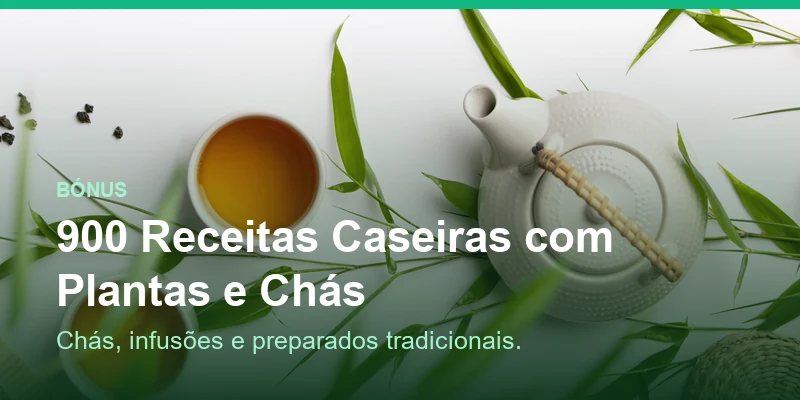
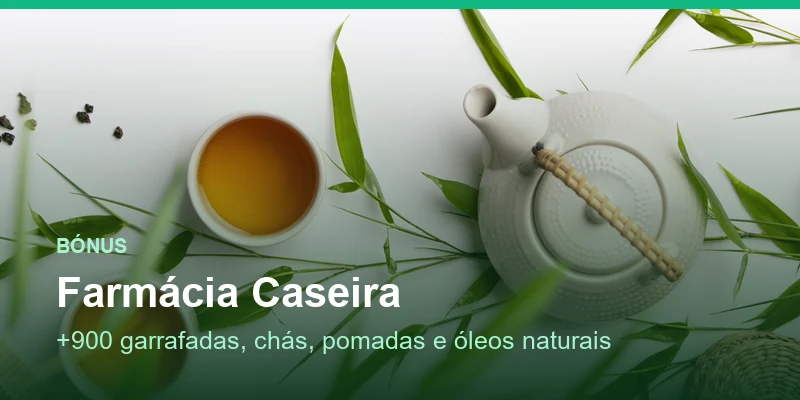
fix(stripe): o checkout nao mostrava onde escrever o cartao
A funcao que entrega a chave ao browser respeita o modo de teste e devolvia a
chave pk_test. Mas as que falam com o Stripe liam sempre stripe_secret_key, a
chave real. O browser abria o Stripe em modo de teste e recebia um pagamento
criado em modo real: perante essa mistura o Stripe recusa-se a desenhar o
formulario, e o cliente ficava sem onde escrever o cartao.

Todas as funcoes passam a escolher a chave pelo mesmo stripe_mode. Em modo de
teste usam so a chave de teste — se faltar, falham com erro em vez de caírem
na chave real, que cobraria a serio a pensar que estava a testar.

A get-stripe-key so existia publicada; fica tambem no repositorio, que era
onde as duas versoes se tinham separado.

diff --git a/supabase/functions/one-click-upsell/index.ts b/supabase/functions/one-click-upsell/index.ts
@@ -25,12 +25,18 @@ serve(async (req) => {
 
     const supabaseAdmin = createClient(SUPABASE_URL, SUPABASE_SERVICE_ROLE_KEY);
 
+    // A chave secreta tem de ser do MESMO modo da chave publicavel que o
+    // browser recebeu. Misturar as duas faz o Stripe recusar-se a desenhar o
+    // formulario: o cliente fica sem onde escrever o cartao e a venda perde-se.
     const { data: appSettings } = await supabaseAdmin
       .from("app_settings")
-      .select("stripe_secret_key")
+      .select("stripe_secret_key, stripe_secret_key_test, stripe_mode")
       .eq("id", 1)
       .maybeSingle();
-    const STRIPE_SECRET_KEY = appSettings?.stripe_secret_key || Deno.env.get("STRIPE_SECRET_KEY");
+    const emModoTeste = appSettings?.stripe_mode === "test";
+    const STRIPE_SECRET_KEY = emModoTeste
+      ? appSettings?.stripe_secret_key_test
+      : (appSettings?.stripe_secret_key || Deno.env.get("STRIPE_SECRET_KEY"));
     if (!STRIPE_SECRET_KEY) throw new Error("STRIPE_SECRET_KEY is not configured");
 
     const stripe = new Stripe(STRIPE_SECRET_KEY, { apiVersion: "2025-08-27.basil" });
@@ -56,8 +62,8 @@ serve(async (req) => {
       const auth = { Authorization: `Bearer ${SUPABASE_SERVICE_ROLE_KEY}`, "Content-Type": "application/json" };
       try { await fetch(`${base}/send-purchase-email`, { method: "POST", headers: auth, body: JSON.stringify({ customer_email: parentTx.customer_email, customer_name: parentTx.customer_name || "", product_name: upsell.product_name, amount, currency: currency.toUpperCase(), transaction_id: newTxId }) }); } catch (_) { /* ignore */ }
       try { await fetch(`${base}/utmify-notify`, { method: "POST", headers: auth, body: JSON.stringify({ transaction_id: newTxId, product_name: `Upsell: ${upsell.product_name}`, product_id: upsellPaymentLinkId, customer_name: parentTx.customer_name || "", customer_email: parentTx.customer_email, customer_phone: parentTx.customer_phone || "", amount, currency: currency.toUpperCase(), order_bump_accepted: false, order_bump_amount: 0, payment_method: "stripe", status: "successful", created_at: new Date().toISOString(), approved_at: new Date().toISOString(), tracking_params: trackingParams || undefined }) }); } catch (_) { /* ignore */ }
-      const fbPixel = upsell.facebook_pixel_id || "2125158571414054";
[1 lines of base64/hex data omitted]
+      const fbPixel = upsell.facebook_pixel_id || "1110415468003004";
[1 lines of base64/hex data omitted]
       try { if (fbPixel && fbTok) await fetch(`${base}/facebook-conversion`, { method: "POST", headers: auth, body: JSON.stringify({ transaction_id: newTxId, pixel_id: fbPixel, access_token: fbTok, event_name: "Purchase", value: amount, currency: currency.toUpperCase(), customer_email: parentTx.customer_email, customer_phone: parentTx.customer_phone || "" }) }); } catch (_) { /* ignore */ }
     }
 

diff --git a/supabase/functions/get-stripe-key/index.ts b/supabase/functions/get-stripe-key/index.ts
@@ -16,30 +16,52 @@ serve(async (req) => {
     Deno.env.get("STRIPE_PUBLISHABLE_KEY") ||
     Deno.env.get("VITE_STRIPE_PUBLISHABLE_KEY") ||
     "";
+  let mode = "live";
 
   const SUPABASE_URL = Deno.env.get("SUPABASE_URL");
   const SUPABASE_SERVICE_ROLE_KEY = Deno.env.get("SUPABASE_SERVICE_ROLE_KEY");
   if (SUPABASE_URL && SUPABASE_SERVICE_ROLE_KEY) {
     const supabaseAdmin = createClient(SUPABASE_URL, SUPABASE_SERVICE_ROLE_KEY);
-    const envPk = Deno.env.get("STRIPE_PUBLISHABLE_KEY");
-    const envSk = Deno.env.get("STRIPE_SECRET_KEY");
 
-    if (envPk && envPk.startsWith("pk_live_")) {
-      await supabaseAdmin.from("app_settings").upsert({
-        id: 1,
-        stripe_publishable_key: envPk,
-        stripe_secret_key: envSk || undefined,
-        updated_at: new Date().toISOString(),
-      });
-      publishableKey = envPk;
+    const { data: appSettings } = await supabaseAdmin
+      .from("app_settings")
+      .select("stripe_publishable_key, stripe_publishable_key_test, stripe_mode")
+      .eq("id", 1)
+      .maybeSingle();
+
+    mode = (appSettings?.stripe_mode || "live").toLowerCase();
+
+    if (mode === "test") {
+      // Em modo de teste NUNCA devolver a chave real: o checkout passaria a
+      // cobrar a serio a pensar que estava a testar.
+      const testPk = appSettings?.stripe_publishable_key_test || "";
+      if (!testPk) {
+        return new Response(
+          JSON.stringify({ error: "Modo de teste ativo mas nao ha chave publicavel de teste configurada" }),
+          { status: 500, headers: { ...corsHeaders, "Content-Type": "application/json" } },
+        );
+      }
+      publishableKey = testPk;
     } else {
-      const { data: appSettings } = await supabaseAdmin
-        .from("app_settings")
-        .select("stripe_publishable_key")
-        .eq("id", 1)
-        .maybeSingle();
-      if (appSettings?.stripe_publishable_key) {
+      // Modo live: a variavel de ambiente (quando e live) continua a ter
+      // prioridade e a sincronizar app_settings, como antes.
+      const envPk = Deno.env.get("STRIPE_PUBLISHABLE_KEY");
+      const envSk = Deno.env.get("STRIPE_SECRET_KEY");
+
+      if (envPk && envPk.startsWith("pk_live_")) {
+        await supabaseAdmin.from("app_settings").upsert({
+          id: 1,
+          stripe_publishable_key: envPk,
+          stripe_secret_key: envSk || undefined,
+          updated_at: new Date().toISOString(),
+        });
+        publishableKey = envPk;
+      } else if (appSettings?.stripe_publishable_key) {
         publishableKey = appSettings.stripe_publishable_key;
+      } else if (appSettings?.stripe_publishable_key_test) {
+        // So ha chaves de teste configuradas: usa-as, nao ha dinheiro em risco.
+        publishableKey = appSettings.stripe_publishable_key_test;
+        mode = "test";
       }
     }
   }
@@ -52,7 +74,7 @@ serve(async (req) => {
   }
 
   return new Response(
-    JSON.stringify({ publishable_key: publishableKey }),
+    JSON.stringify({ publishable_key: publishableKey, mode }),
     {
       status: 200,
       headers: {

diff --git a/supabase/functions/abandoned-cart-recovery/index.ts b/supabase/functions/abandoned-cart-recovery/index.ts
@@ -13,7 +13,7 @@ import { createClient } from "https://esm.sh/@supabase/supabase-js@2";
  */
 
 const CRON_KEY = "cron_9f2b7a13e6c84d5f0a1bd7e4";
-const PAY_BASE = "https://www.tecnhogar.store/pay/";
+const PAY_BASE = "https://paymhddigital.vercel.app/pay/";
 
 const SKIP_EMAILS = new Set([
   "ivanilsondagraca40@gmail.com",
@@ -283,10 +283,14 @@ serve(async (req) => {
 
     // Used only to tell "waiting on a Multibanco reference" apart from "gone".
     const { data: settings } = await supabase
-      .from("app_settings").select("stripe_secret_key").eq("id", 1).maybeSingle();
-    // The column is empty in this project; the live key lives in the env var.
+      .from("app_settings")
+      .select("stripe_secret_key, stripe_secret_key_test, stripe_mode")
+      .eq("id", 1).maybeSingle();
+    // Segue o modo escolhido nas definicoes, como o checkout.
     const stripeKey: string | null =
-      settings?.stripe_secret_key || Deno.env.get("STRIPE_SECRET_KEY") || null;
+      (settings?.stripe_mode === "test"
+        ? settings?.stripe_secret_key_test
+        : settings?.stripe_secret_key) || Deno.env.get("STRIPE_SECRET_KEY") || null;
     if (!stripeKey) console.warn("[RECOVERY] no Stripe key - Multibanco vouchers cannot be detected");
 
     const now = Date.now();

diff --git a/supabase/functions/stripe-webhook-confirm/index.ts b/supabase/functions/stripe-webhook-confirm/index.ts
@@ -243,12 +243,18 @@ serve(async (req) => {
     const supabaseAdmin = createClient(SUPABASE_URL, SUPABASE_SERVICE_ROLE_KEY);
 
     // Prefer the key configured in Settings (app_settings), fall back to the env secret.
+    // A chave secreta tem de ser do MESMO modo da chave publicavel que o
+    // browser recebeu. Misturar as duas faz o Stripe recusar-se a desenhar o
+    // formulario: o cliente fica sem onde escrever o cartao e a venda perde-se.
     const { data: appSettings } = await supabaseAdmin
       .from("app_settings")
-      .select("stripe_secret_key")
+      .select("stripe_secret_key, stripe_secret_key_test, stripe_mode")
       .eq("id", 1)
       .maybeSingle();
-    const STRIPE_SECRET_KEY = appSettings?.stripe_secret_key || Deno.env.get("STRIPE_SECRET_KEY");
+    const emModoTeste = appSettings?.stripe_mode === "test";
+    const STRIPE_SECRET_KEY = emModoTeste
+      ? appSettings?.stripe_secret_key_test
+      : (appSettings?.stripe_secret_key || Deno.env.get("STRIPE_SECRET_KEY"));
 
     const body = await req.json();
     const { transaction_id, payment_intent_id, update_customer, customer_email, customer_name, customer_phone, payment_status, tracking_params } = body;

diff --git a/supabase/functions/create-stripe-payment/index.ts b/supabase/functions/create-stripe-payment/index.ts
@@ -23,12 +23,18 @@ serve(async (req) => {
     const supabaseAdmin = createClient(SUPABASE_URL, SUPABASE_SERVICE_ROLE_KEY);
 
     // Prefer the key configured in Settings (app_settings), fall back to the env secret.
+    // A chave secreta tem de ser do MESMO modo da chave publicavel que o
+    // browser recebeu. Misturar as duas faz o Stripe recusar-se a desenhar o
+    // formulario: o cliente fica sem onde escrever o cartao e a venda perde-se.
     const { data: appSettings } = await supabaseAdmin
       .from("app_settings")
-      .select("stripe_secret_key")
+      .select("stripe_secret_key, stripe_secret_key_test, stripe_mode")
       .eq("id", 1)
       .maybeSingle();
-    const STRIPE_SECRET_KEY = appSettings?.stripe_secret_key || Deno.env.get("STRIPE_SECRET_KEY");
+    const emModoTeste = appSettings?.stripe_mode === "test";
+    const STRIPE_SECRET_KEY = emModoTeste
+      ? appSettings?.stripe_secret_key_test
+      : (appSettings?.stripe_secret_key || Deno.env.get("STRIPE_SECRET_KEY"));
     if (!STRIPE_SECRET_KEY) throw new Error("STRIPE_SECRET_KEY is not configured");
 
     const stripe = new Stripe(STRIPE_SECRET_KEY, { apiVersion: "2025-08-27.basil" });

diff --git a/supabase/functions/stripe-webhook/index.ts b/supabase/functions/stripe-webhook/index.ts
@@ -45,12 +45,16 @@ serve(async (req) => {
 
   // The Stripe secret key is only needed to build a client for signature
   // verification helpers; the value itself is not used to construct the event.
+  // A chave secreta segue o modo escolhido nas definicoes, como no checkout.
   const { data: appSettings } = await supabaseAdmin
     .from("app_settings")
-    .select("stripe_secret_key")
+    .select("stripe_secret_key, stripe_secret_key_test, stripe_mode")
     .eq("id", 1)
     .maybeSingle();
-  const STRIPE_SECRET_KEY = appSettings?.stripe_secret_key || Deno.env.get("STRIPE_SECRET_KEY");
+  const emModoTeste = appSettings?.stripe_mode === "test";
+  const STRIPE_SECRET_KEY = emModoTeste
+    ? appSettings?.stripe_secret_key_test
+    : (appSettings?.stripe_secret_key || Deno.env.get("STRIPE_SECRET_KEY"));
   if (!STRIPE_SECRET_KEY) {
     console.error("[STRIPE-WEBHOOK] Stripe secret key not configured");
     return new Response("Stripe not configured", { status: 500 });

diff --git a/supabase/functions/facebook-conversion/index.ts b/supabase/functions/facebook-conversion/index.ts
@@ -66,8 +66,8 @@ serve(async (req) => {
     }
 
     // Default fallbacks for all products
-    resolvedPixel = resolvedPixel || "2125158571414054";
[1 lines of base64/hex data omitted]
+    resolvedPixel = resolvedPixel || "1110415468003004";
[1 lines of base64/hex data omitted]
 
     if (!resolvedPixel || !resolvedToken) {
       console.log("[FB-CONVERSION] No pixel/token, skipping");

diff --git a/supabase/functions/send-payment-reminder-email/index.ts b/supabase/functions/send-payment-reminder-email/index.ts
@@ -112,7 +112,7 @@ serve(async (req) => {
     const displayName = customer_name || customer_email.split("@")[0];
     const formattedAmount = `${currency} ${amount.toLocaleString(t.locale, { minimumFractionDigits: 2 })}`;
 
-    const origin = req.headers.get("origin") || "https://www.tecnhogar.store";
+    const origin = req.headers.get("origin") || "https://paymhddigital.vercel.app";
     const payUrl = `${origin}/pay/${payment_link_id}`;
 
     const productImageRow = product_image_url

diff --git a/supabase/functions/utmify-notify/index.ts b/supabase/functions/utmify-notify/index.ts
@@ -177,6 +177,9 @@ serve(async (req) => {
         utm_medium: tracking_params?.utm_medium || null,
         utm_content: tracking_params?.utm_content || null,
         utm_term: tracking_params?.utm_term || null,
+        ttclid: tracking_params?.ttclid || null,
+        fbclid: tracking_params?.fbclid || null,
+        gclid: tracking_params?.gclid || null,
       },
       commission: {
         totalPriceInCents: totalCents,

diff --git a/supabase/functions/send-purchase-email/index.ts b/supabase/functions/send-purchase-email/index.ts
@@ -205,7 +205,7 @@ serve(async (req) => {
       `;
     }
 
-    const origin = req.headers.get("origin") || "https://www.tecnhogar.store";
+    const origin = req.headers.get("origin") || "https://paymhddigital.vercel.app";
     const trackingParams = new URLSearchParams({
       product: product_name,
       amount: amount.toLocaleString(t.locale, { minimumFractionDigits: 2 }),
